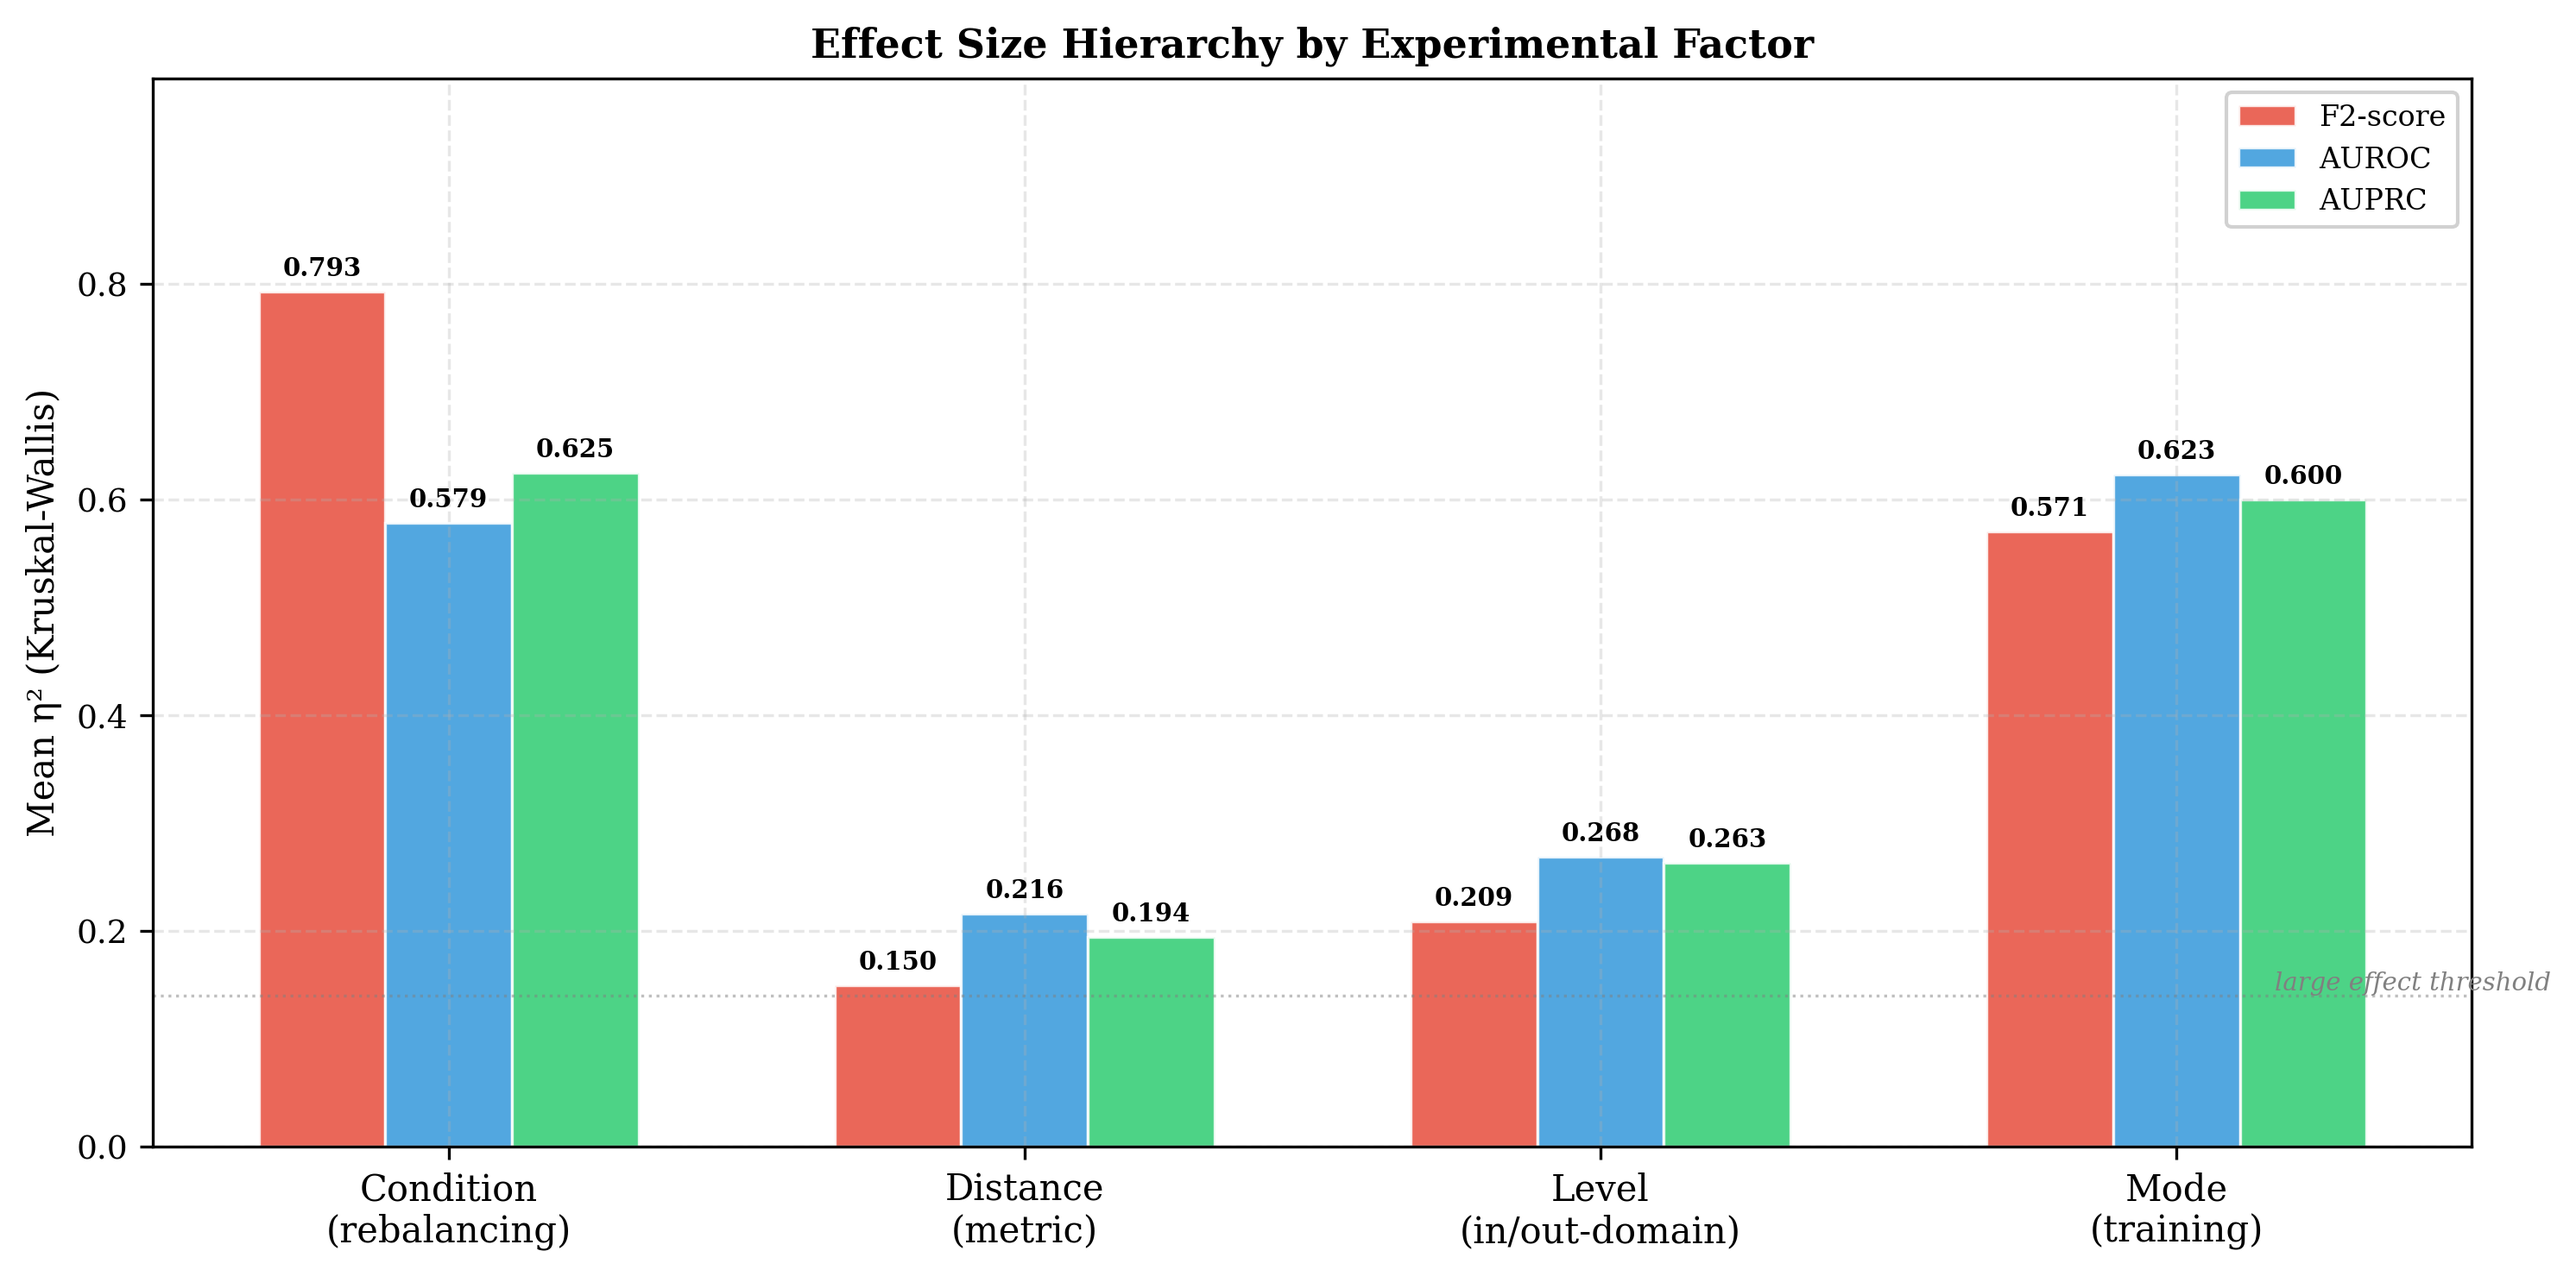
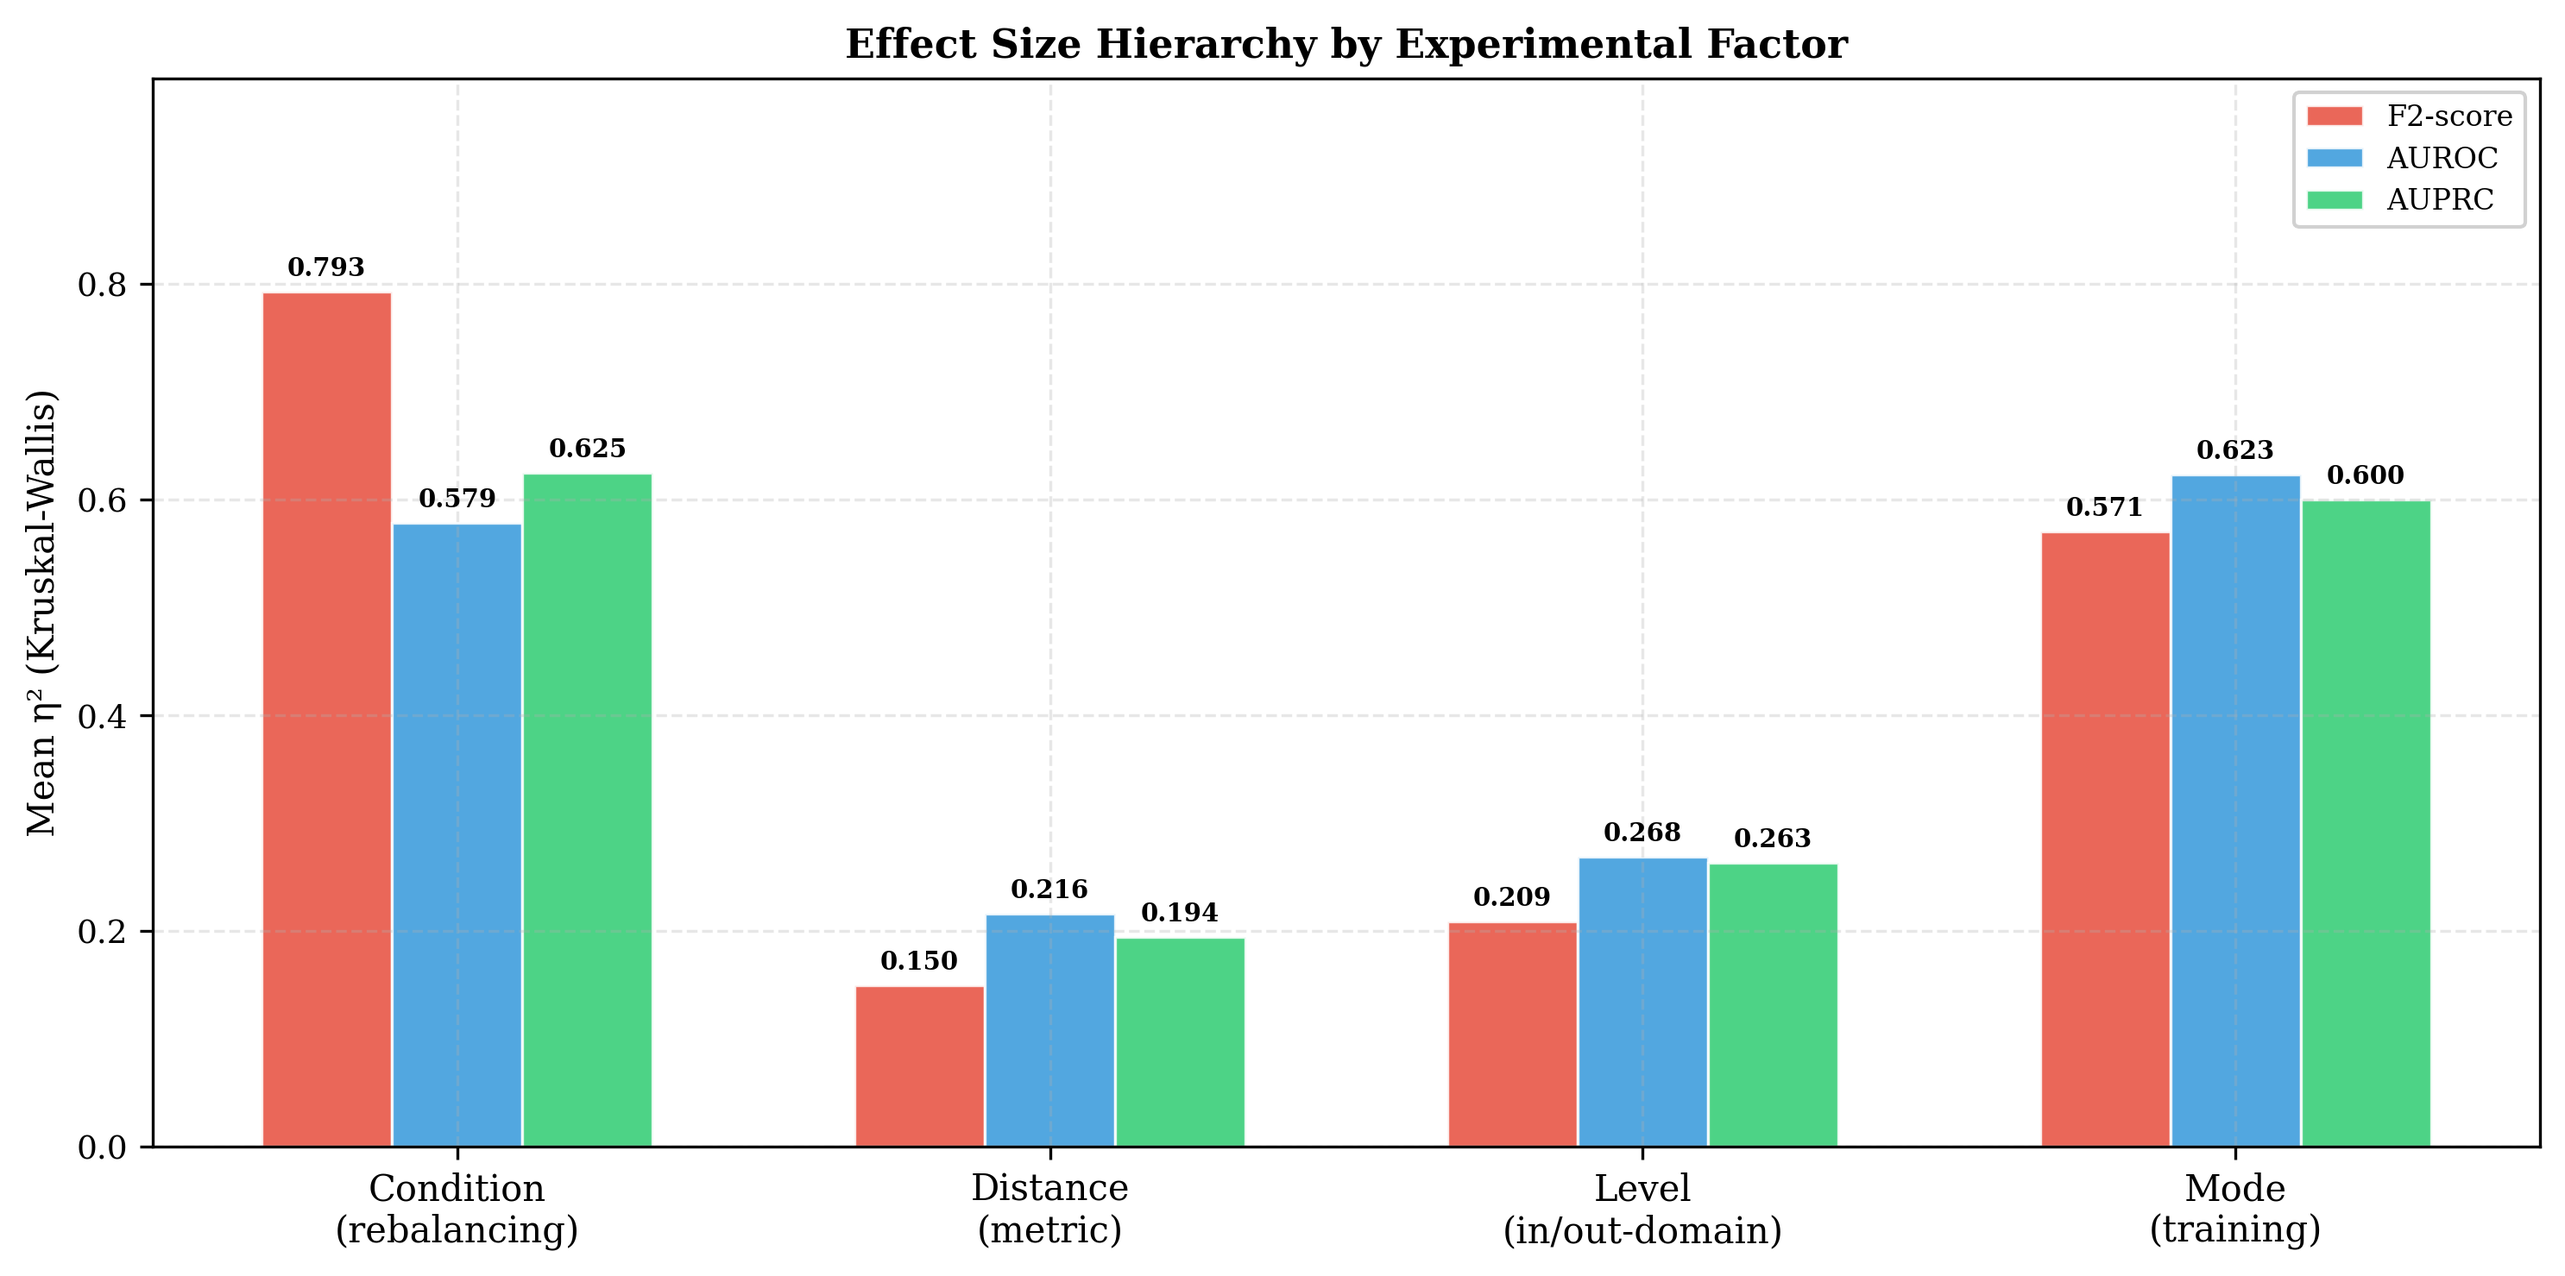
Fig 2: remove large effect threshold line and label

diff --git a/scripts/python/analysis/domain/plot_journal_figures_v2.py b/scripts/python/analysis/domain/plot_journal_figures_v2.py
@@ -257,11 +257,6 @@ def plot_effect_hierarchy(df: pd.DataFrame):
                 ax.text(bar.get_x() + bar.get_width() / 2, bar.get_height() + 0.005,
                         f"{v:.4f}", ha="center", va="bottom", fontsize=6.5)
 
-    # Reference lines
-    ax.axhline(0.14, color="gray", linewidth=0.8, linestyle=":", alpha=0.5)
-    ax.text(3.65, 0.145, "large effect threshold", fontsize=7, color="gray",
-            ha="right", fontstyle="italic")
-
     ax.set_xticks(x)
     ax.set_xticklabels(factors, fontsize=10)
     ax.set_ylabel("Mean η² (Kruskal-Wallis)", fontsize=10)
